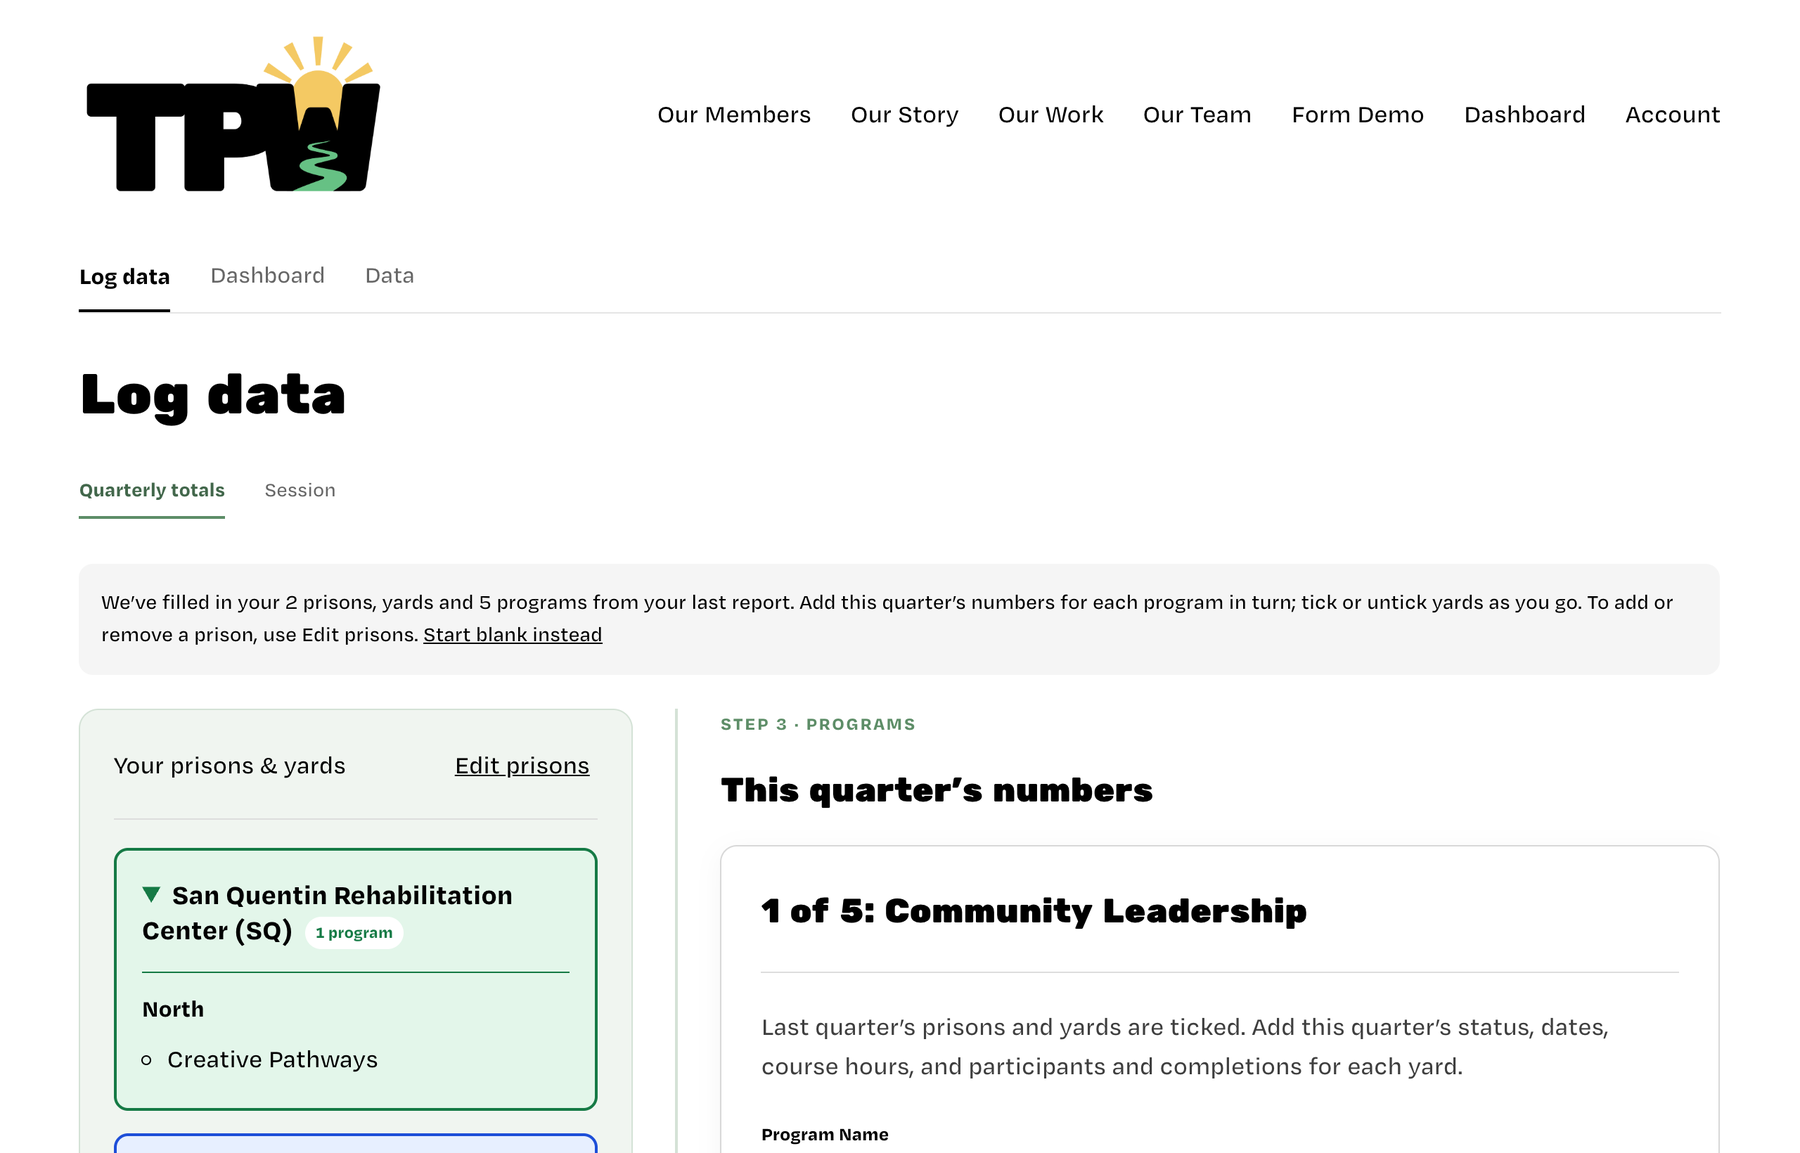
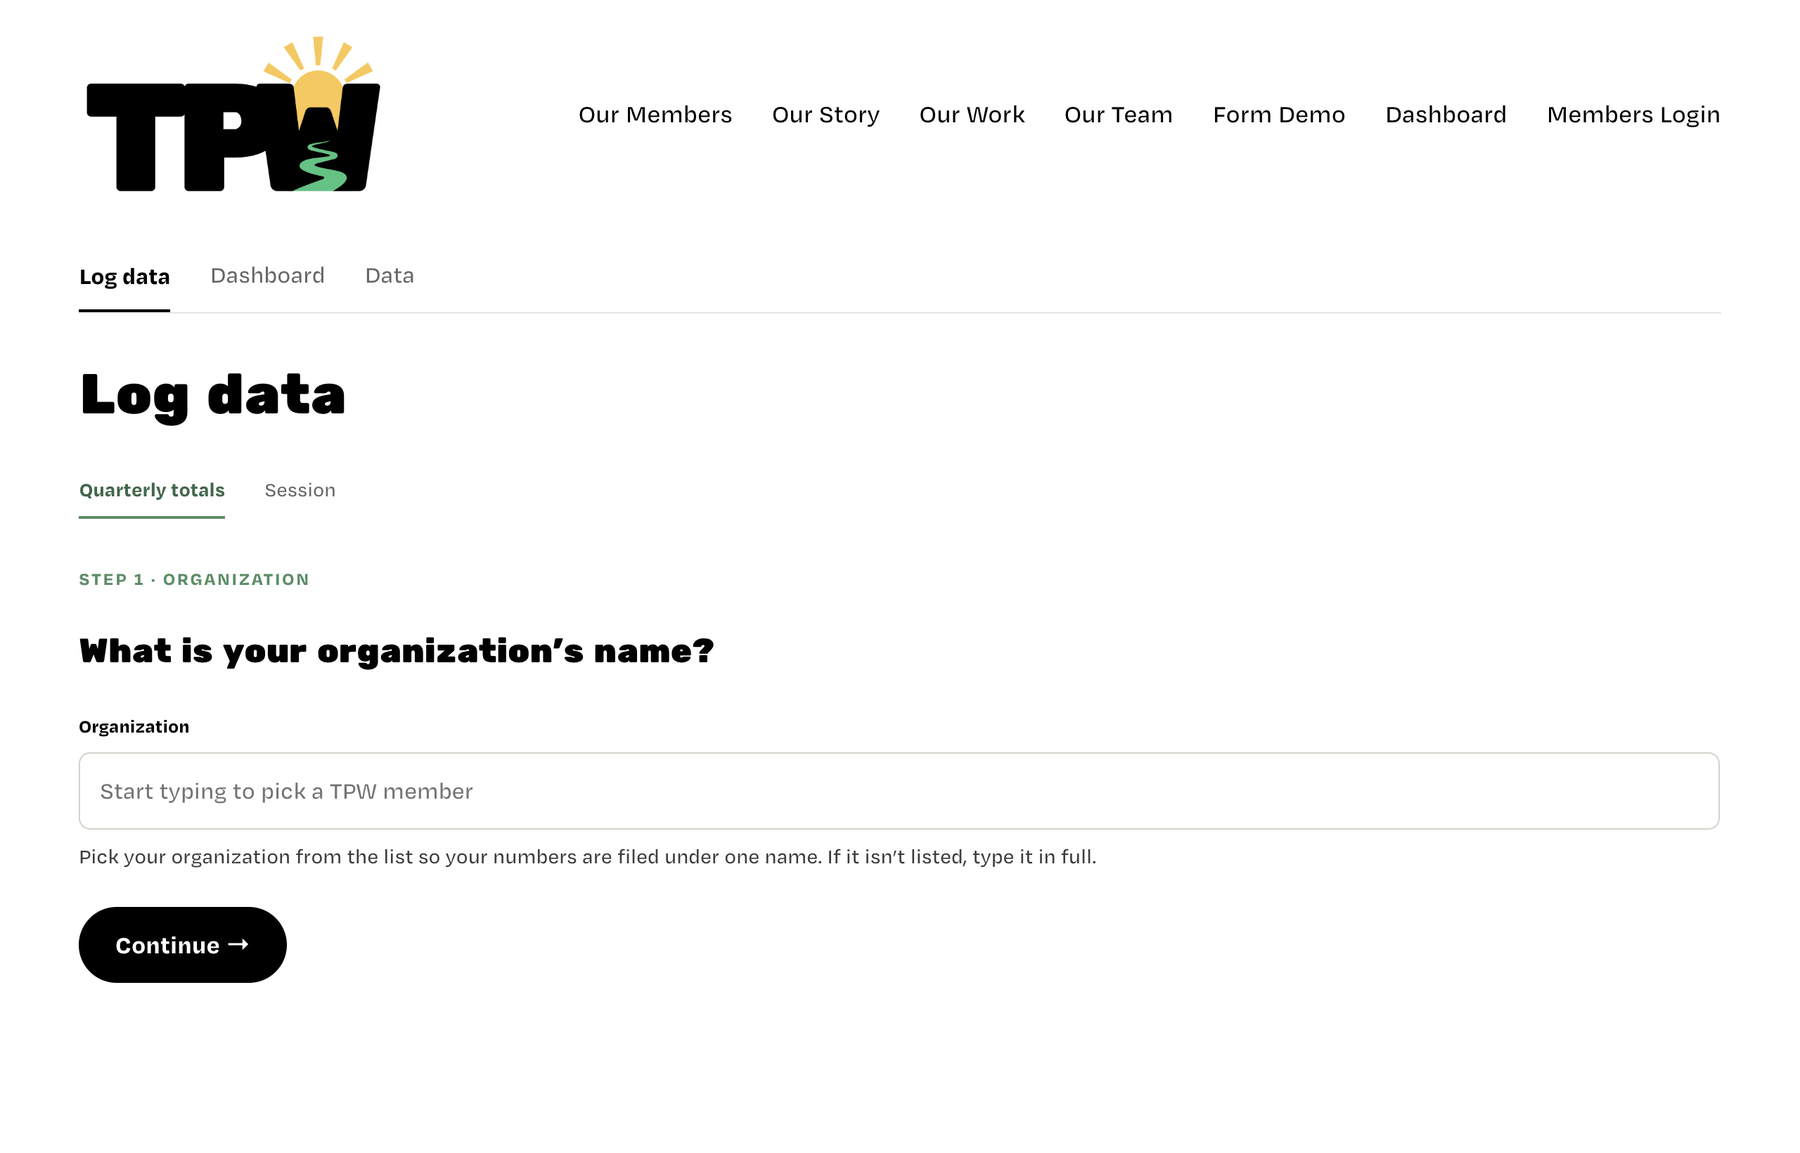
docs: add a Log data screenshot with last quarter's numbers filled in
Adds door_checkin.png (a sample organization's Log data page, with the form
starting from its last report) and retakes door_logdata.png from a clean
start with no one signed in. Same made-up and sample data.

diff --git a/docs/staff-guide-screenshots/README.md b/docs/staff-guide-screenshots/README.md
@@ -9,7 +9,8 @@ Taken on 25 October 2026 from `main`, with headless Chrome at twice the normal p
 | File | What it shows |
 |---|---|
 | `door_menu.png` | Members Login opening the account menu, with the new Intake entry |
-| `door_logdata.png` | The Log data page: Quarterly totals and Session tabs, step 1 of the form |
+| `door_logdata.png` | The Log data page when no one is signed in: Quarterly totals and Session tabs, step 1 of the form |
+| `door_checkin.png` | Log data for a sample organization: the form starts from last quarter's report and asks only for this quarter's numbers |
 | `form_org.png` | Step 1: the organization's name |
 | `form_prisons.png` | Step 2: choosing a prison and its yards |
 | `form_prog_a.png` | Step 3: program name, prisons and yards |
